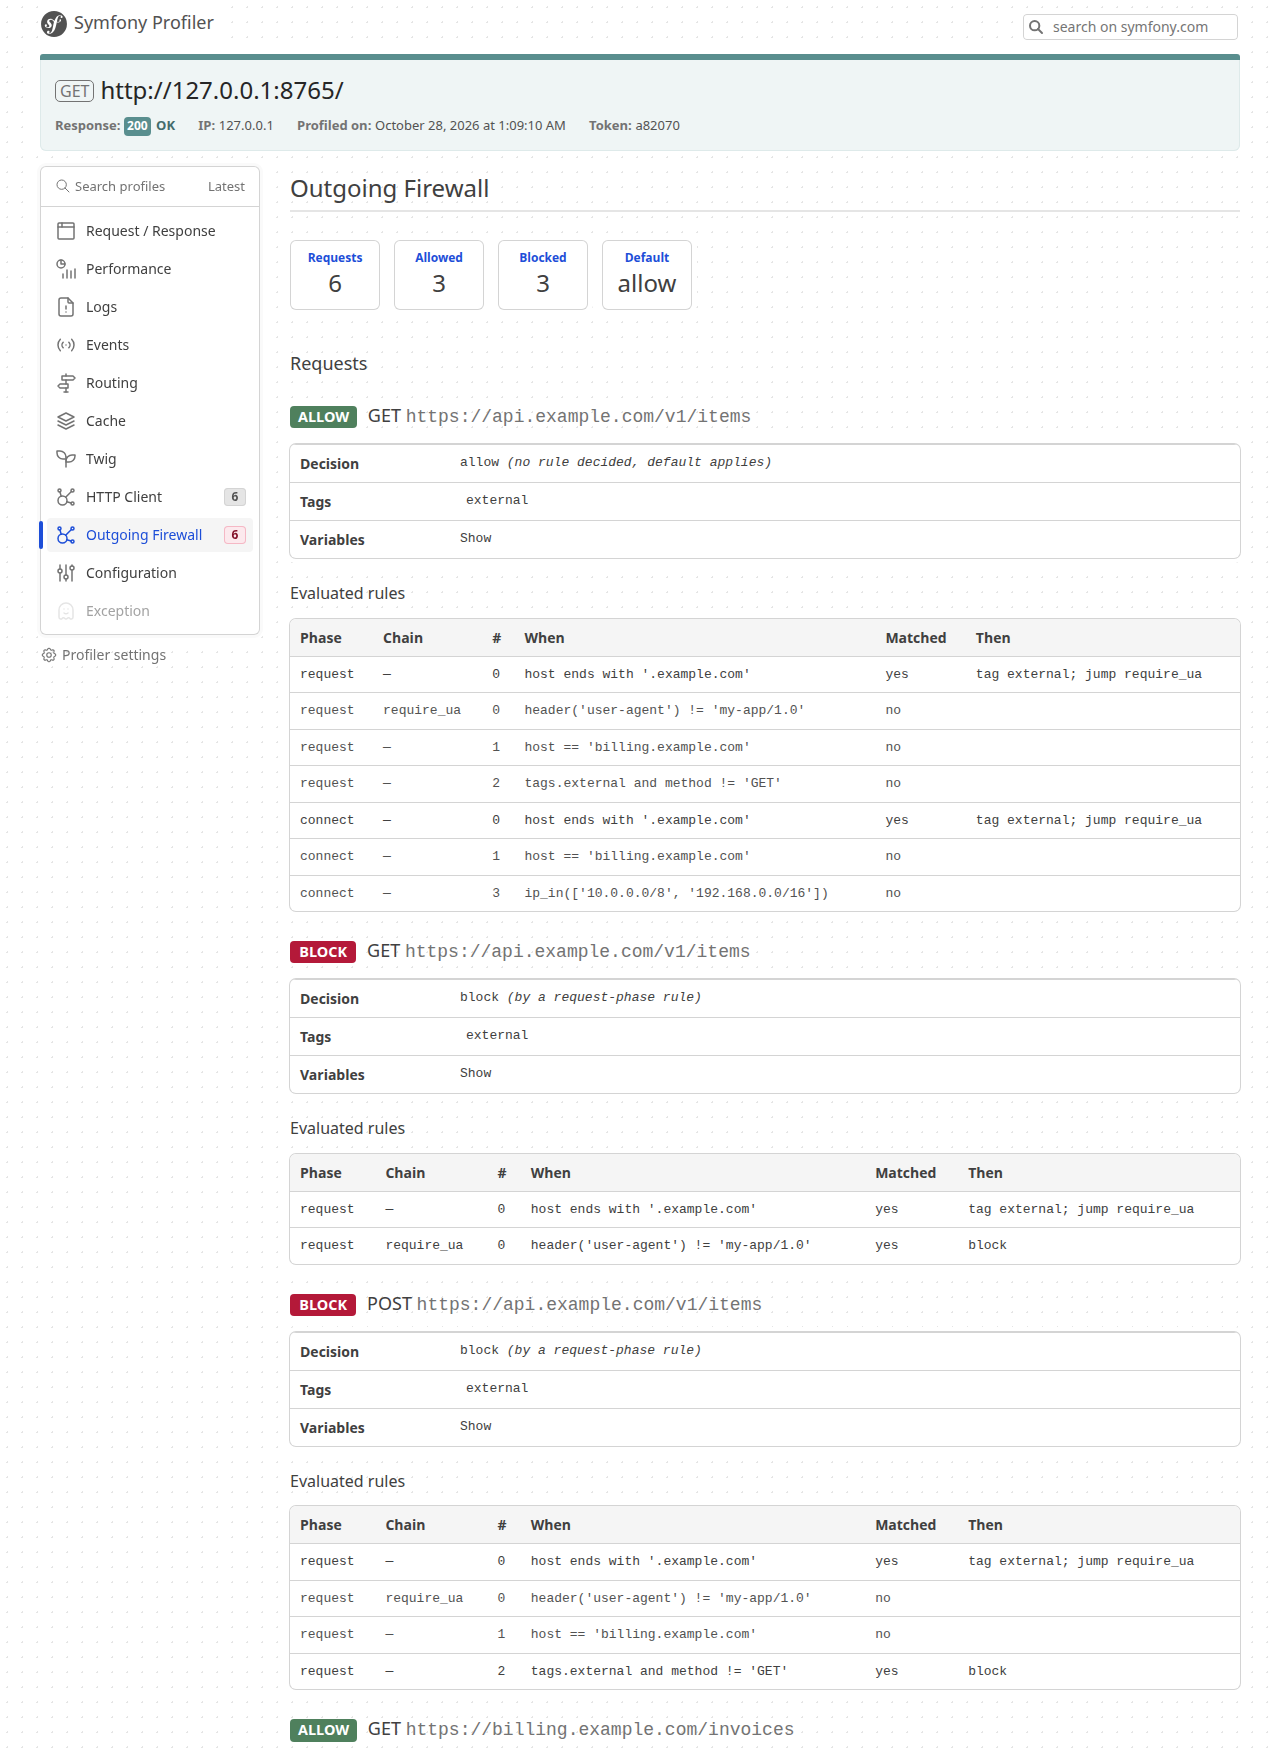
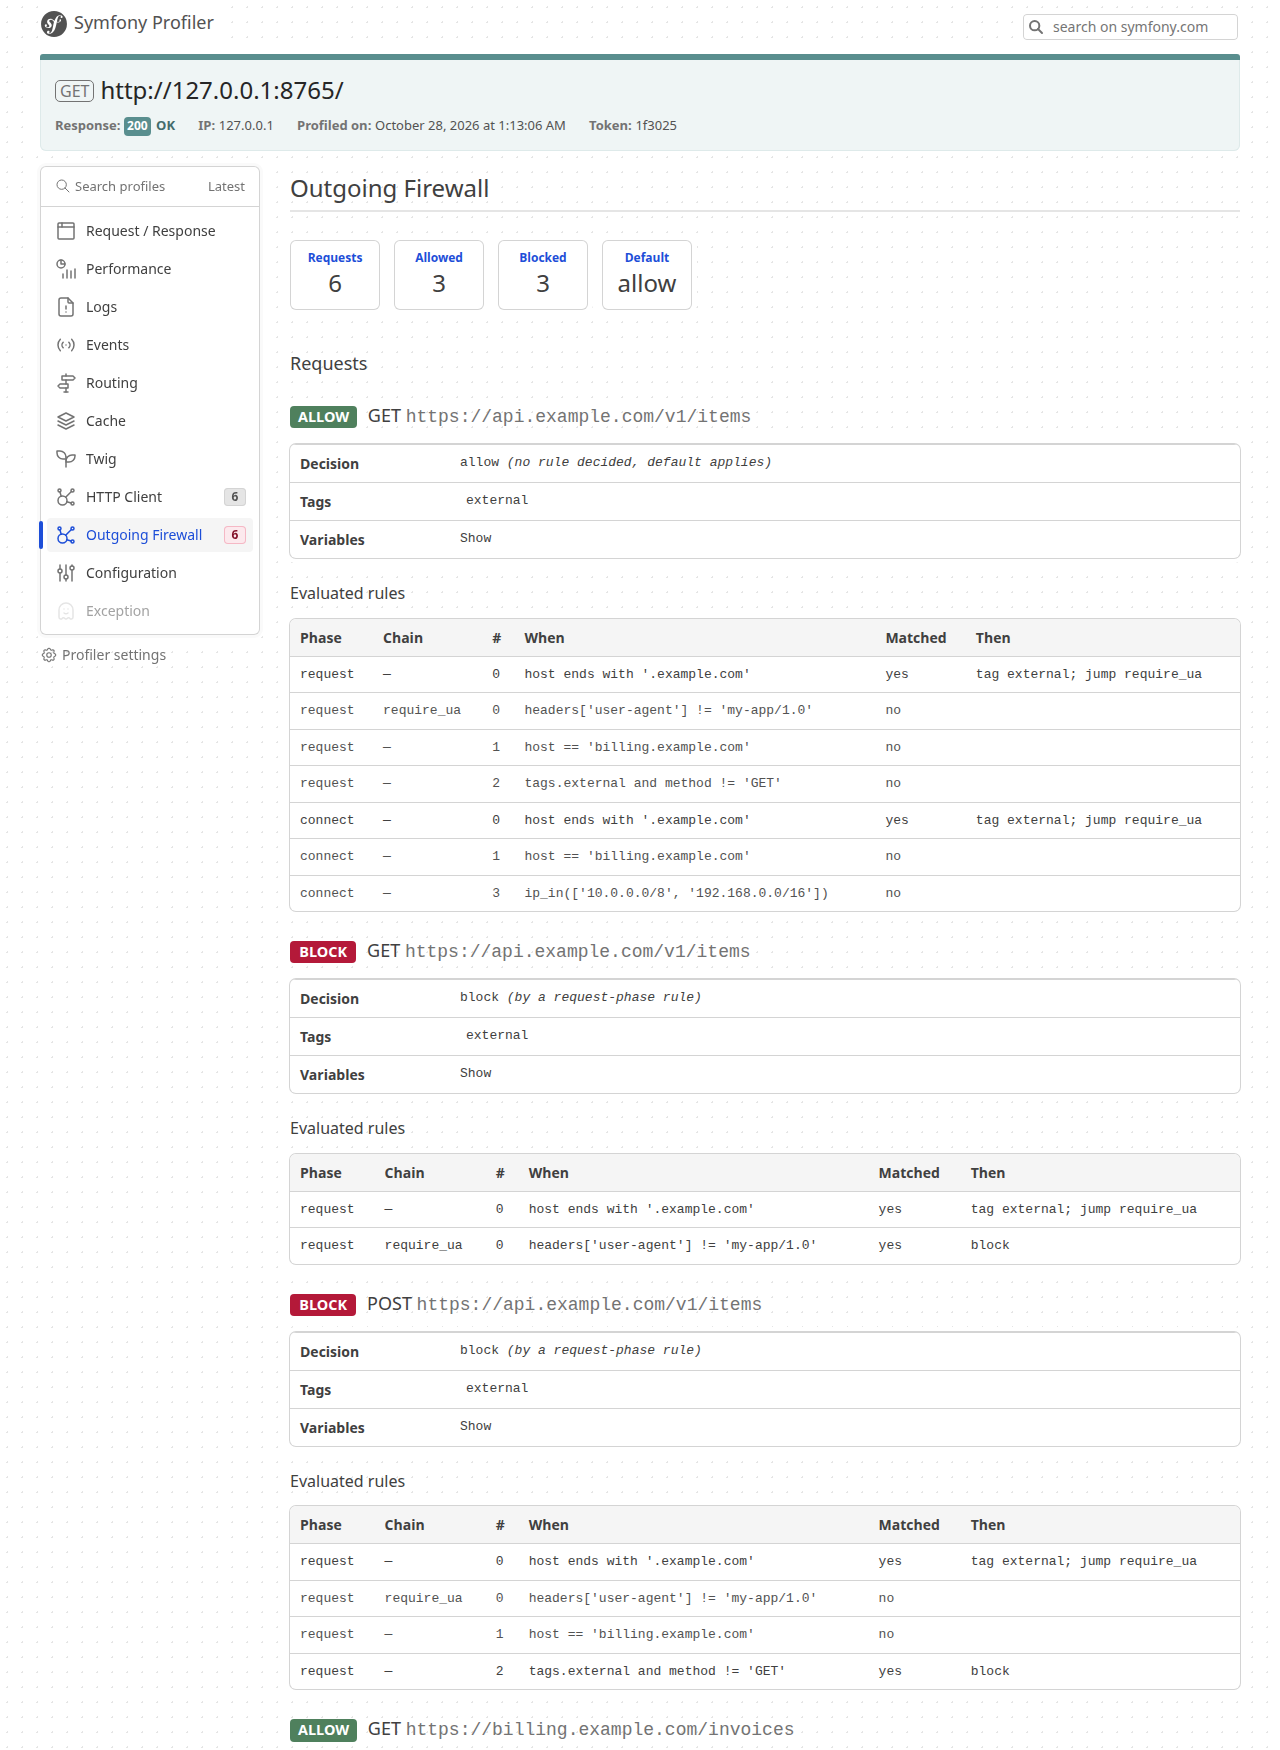
Read headers as headers['Name'] instead of header()

diff --git a/tests/FirewallHttpClientTest.php b/tests/FirewallHttpClientTest.php
@@ -39,7 +39,7 @@ final class FirewallHttpClientTest extends FirewallTestCase
 
     public function testRequiredHeaderValue(): void
     {
-        $client = self::client(self::ruleSet(['rules' => [self::rule(['when' => "header('User-Agent') != 'foobar'", 'action' => 'block'])]]));
+        $client = self::client(self::ruleSet(['rules' => [self::rule(['when' => "headers['User-Agent'] != 'foobar'", 'action' => 'block'])]]));
 
         self::assertSame('ok', $client->request('GET', 'https://example.com/', ['headers' => ['User-Agent' => 'foobar']])->getContent());
 
@@ -49,7 +49,7 @@ final class FirewallHttpClientTest extends FirewallTestCase
 
     public function testHeadersSetThroughWithOptionsAndDefaultOptionsAreSeen(): void
     {
-        $ruleSet = self::ruleSet(['rules' => [self::rule(['when' => "header('x-env') != 'staging'", 'action' => 'block'])]]);
+        $ruleSet = self::ruleSet(['rules' => [self::rule(['when' => "headers['x-env'] != 'staging'", 'action' => 'block'])]]);
 
         self::assertSame('ok', self::client($ruleSet, defaultOptions: ['headers' => ['X-Env' => 'staging']])->request('GET', 'https://example.com/')->getContent());
         self::assertSame('ok', self::client($ruleSet)->withOptions(['headers' => ['X-Env' => 'staging']])->request('GET', 'https://example.com/')->getContent());

diff --git a/src/Evaluation/HeaderSet.php b/src/Evaluation/HeaderSet.php
@@ -1,0 +1,40 @@
+<?php
+
+namespace Valtzu\OutgoingFirewall\Evaluation;
+
+/**
+ * Lets expressions write headers['User-Agent']: case-insensitive, several values joined with ", ", null when absent.
+ *
+ * @implements \ArrayAccess<string, ?string>
+ */
+final readonly class HeaderSet implements \ArrayAccess
+{
+    /**
+     * @param array<string, list<string>> $headers lowercase name to values
+     */
+    public function __construct(private array $headers)
+    {
+    }
+
+    public function offsetExists(mixed $offset): bool
+    {
+        return true;
+    }
+
+    public function offsetGet(mixed $offset): ?string
+    {
+        $values = $this->headers[strtolower((string) $offset)] ?? null;
+
+        return null === $values ? null : implode(', ', $values);
+    }
+
+    public function offsetSet(mixed $offset, mixed $value): void
+    {
+        throw new \LogicException('Headers are read-only in expressions.');
+    }
+
+    public function offsetUnset(mixed $offset): void
+    {
+        throw new \LogicException('Headers are read-only in expressions.');
+    }
+}

diff --git a/tests/BundleTest.php b/tests/BundleTest.php
@@ -11,7 +11,7 @@ final class BundleTest extends TestCase
 {
     public function testScopedClientHeadersReachTheRules(): void
     {
-        $kernel = new TestKernel(['rules' => [['when' => "header('user-agent') != 'foobar'", 'action' => 'block']]], mockTransport: true);
+        $kernel = new TestKernel(['rules' => [['when' => "headers['user-agent'] != 'foobar'", 'action' => 'block']]], mockTransport: true);
         $kernel->boot();
         $container = $kernel->getContainer();
 
@@ -24,7 +24,7 @@ final class BundleTest extends TestCase
 
     public function testFrameworkDefaultOptionsAndVariableProvidersReachTheRules(): void
     {
-        $kernel = new TestKernel(['rules' => [['when' => "header('x-default') == 'yes' and region == 'eu'", 'action' => 'block']]]);
+        $kernel = new TestKernel(['rules' => [['when' => "headers['x-default'] == 'yes' and region == 'eu'", 'action' => 'block']]]);
         $kernel->boot();
 
         $this->expectException(RequestBlockedException::class);

diff --git a/src/Http/FirewallHttpClient.php b/src/Http/FirewallHttpClient.php
@@ -10,6 +10,7 @@ use Symfony\Contracts\HttpClient\ResponseStreamInterface;
 use Symfony\Contracts\Service\ResetInterface;
 use Valtzu\OutgoingFirewall\Evaluation\Context;
 use Valtzu\OutgoingFirewall\Evaluation\Evaluator;
+use Valtzu\OutgoingFirewall\Evaluation\HeaderSet;
 use Valtzu\OutgoingFirewall\Evaluation\Trace;
 use Valtzu\OutgoingFirewall\Evaluation\VariableProviderInterface;
 use Valtzu\OutgoingFirewall\Profiler\RequestLog;
@@ -157,7 +158,7 @@ final class FirewallHttpClient implements HttpClientInterface, ResetInterface
             'port' => $parts['port'] ?? ('https' === $scheme ? 443 : 80),
             'path' => $parts['path'] ?? '/',
             'query' => $parts['query'] ?? '',
-            'headers' => $headers,
+            'headers' => new HeaderSet($headers),
             'now' => $now,
             'weekday' => $now->format('D'),
             'hour' => (int) $now->format('G'),

diff --git a/src/Expression/FirewallExpressionLanguage.php b/src/Expression/FirewallExpressionLanguage.php
@@ -12,16 +12,6 @@ final class FirewallExpressionLanguage extends ExpressionLanguage
         parent::registerFunctions();
 
         $this->register(
-            'header',
-            static fn (string $name): string => \sprintf('($values["headers"][strtolower(%s)] ?? null)', $name),
-            static function (array $values, string $name): ?string {
-                $header = $values['headers'][strtolower($name)] ?? null;
-
-                return null === $header ? null : implode(', ', $header);
-            },
-        );
-
-        $this->register(
             'ip_in',
             static fn (string $ranges): string => \sprintf('(null !== $values["ip"] && \Symfony\Component\HttpFoundation\IpUtils::checkIp($values["ip"], %s))', $ranges),
             static fn (array $values, string|array $ranges): bool => \is_string($values['ip'] ?? null) && IpUtils::checkIp($values['ip'], $ranges),

diff --git a/README.md b/README.md
@@ -8,7 +8,7 @@ outgoing_firewall:
     default: allow
     chains:
         require_ua:
-            - { when: "header('user-agent') != 'my-app/1.0'", action: block }
+            - { when: "headers['user-agent'] != 'my-app/1.0'", action: block }
         weekdays_only:
             - { when: "weekday in ['Sat', 'Sun']", action: block }
     rules:
@@ -69,7 +69,7 @@ A rule needs at least one of `action`, `jump` or `tag`. When a rule matches, it 
 | `method`, `url` | Method and the full resolved URL |
 | `scheme`, `host`, `port`, `path`, `query` | Parts of the resolved URL. `host` is lowercase. |
 | `tags` | Tags set by earlier rules: `tags.name` is `true` or `false` |
-| `headers` | Lowercase header name to list of values. Includes headers from `default_options`, scoped clients and `withOptions()`. |
+| `headers` | Request headers, read as `headers['User-Agent']`: case-insensitive, several values joined with `, `, `null` when absent. Includes headers from `default_options`, scoped clients and `withOptions()`. |
 | `now`, `weekday`, `hour` | Current time (from the `clock` service), `Mon`..`Sun`, `0`..`23` |
 | `ip`, `connect_time` | Peer IP and connect time in seconds, `null` until the connection is made (connect phase) |
 
@@ -77,7 +77,6 @@ A rule needs at least one of `action`, `jump` or `tag`. When a rule matches, it 
 
 | Name | Value |
 |------|-------|
-| `header('name')` | Header value (several values joined with `, `), or `null` when absent |
 | `ip_in(ranges)` | Whether `ip` is in a CIDR range or a list of them |
 
 Everything else from Symfony's ExpressionLanguage is available (`matches`, `in`, `starts with`, `ends with`, `contains`, `now.format('H')`, ...).
